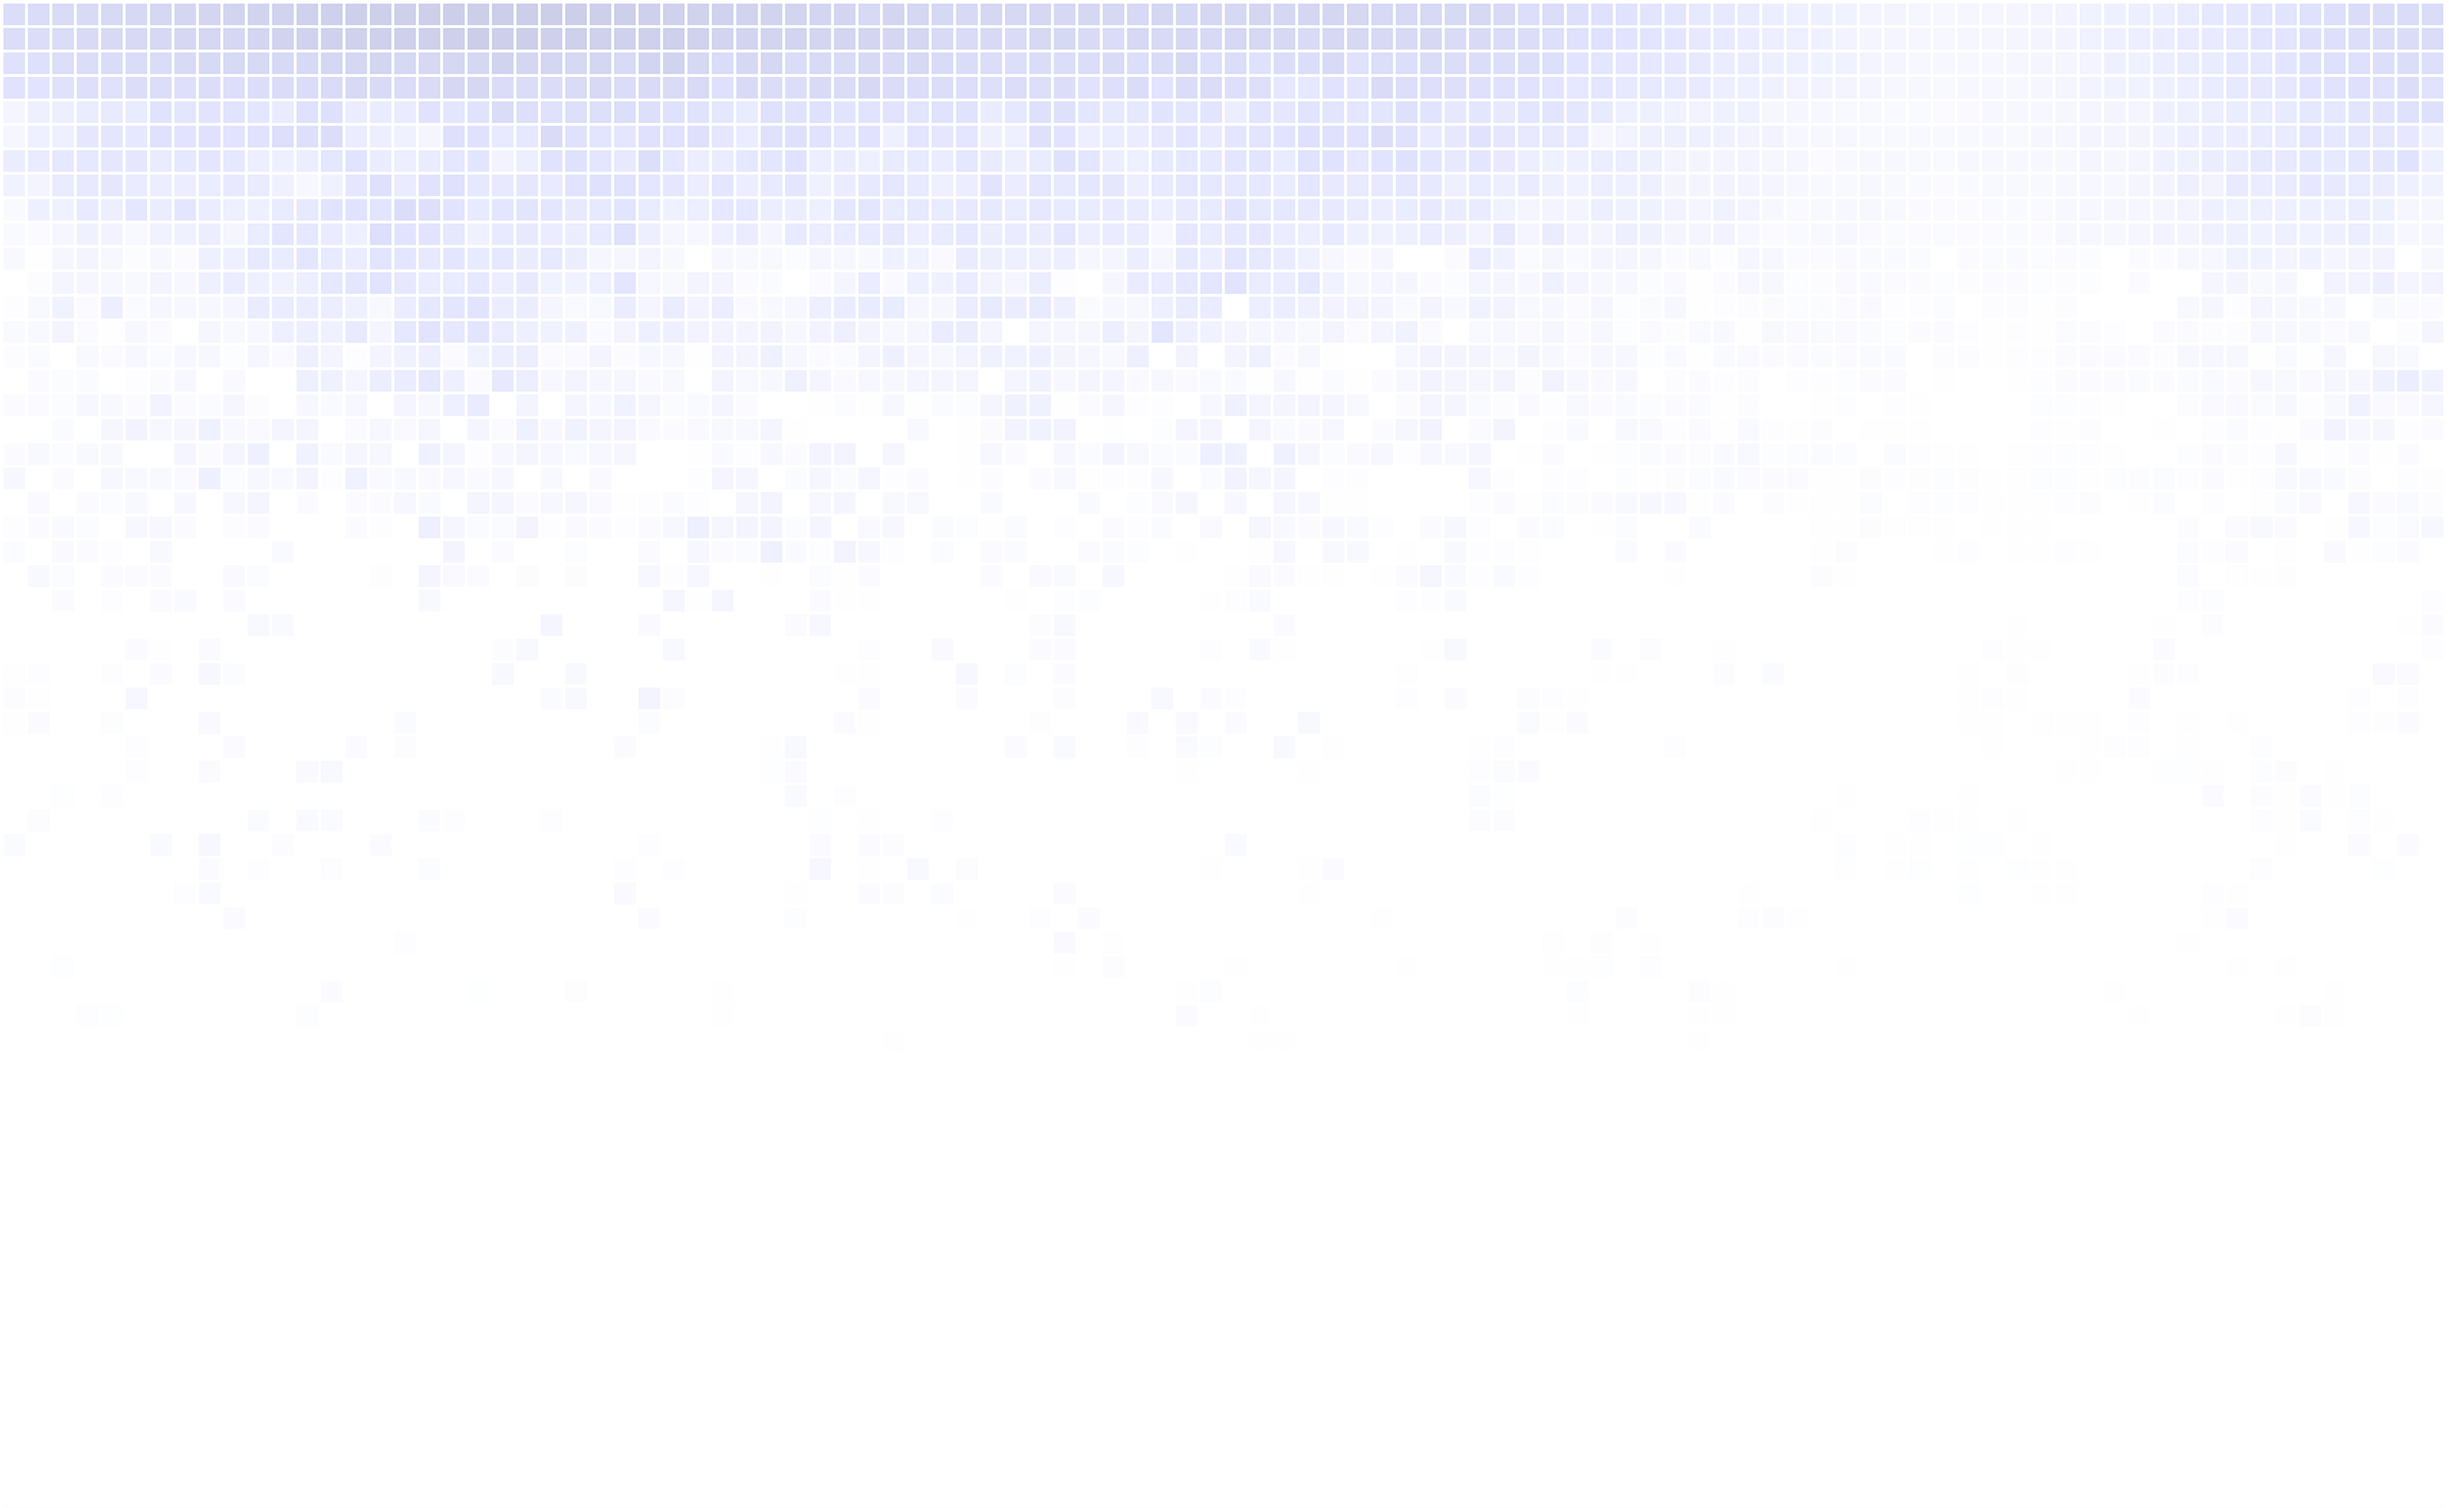
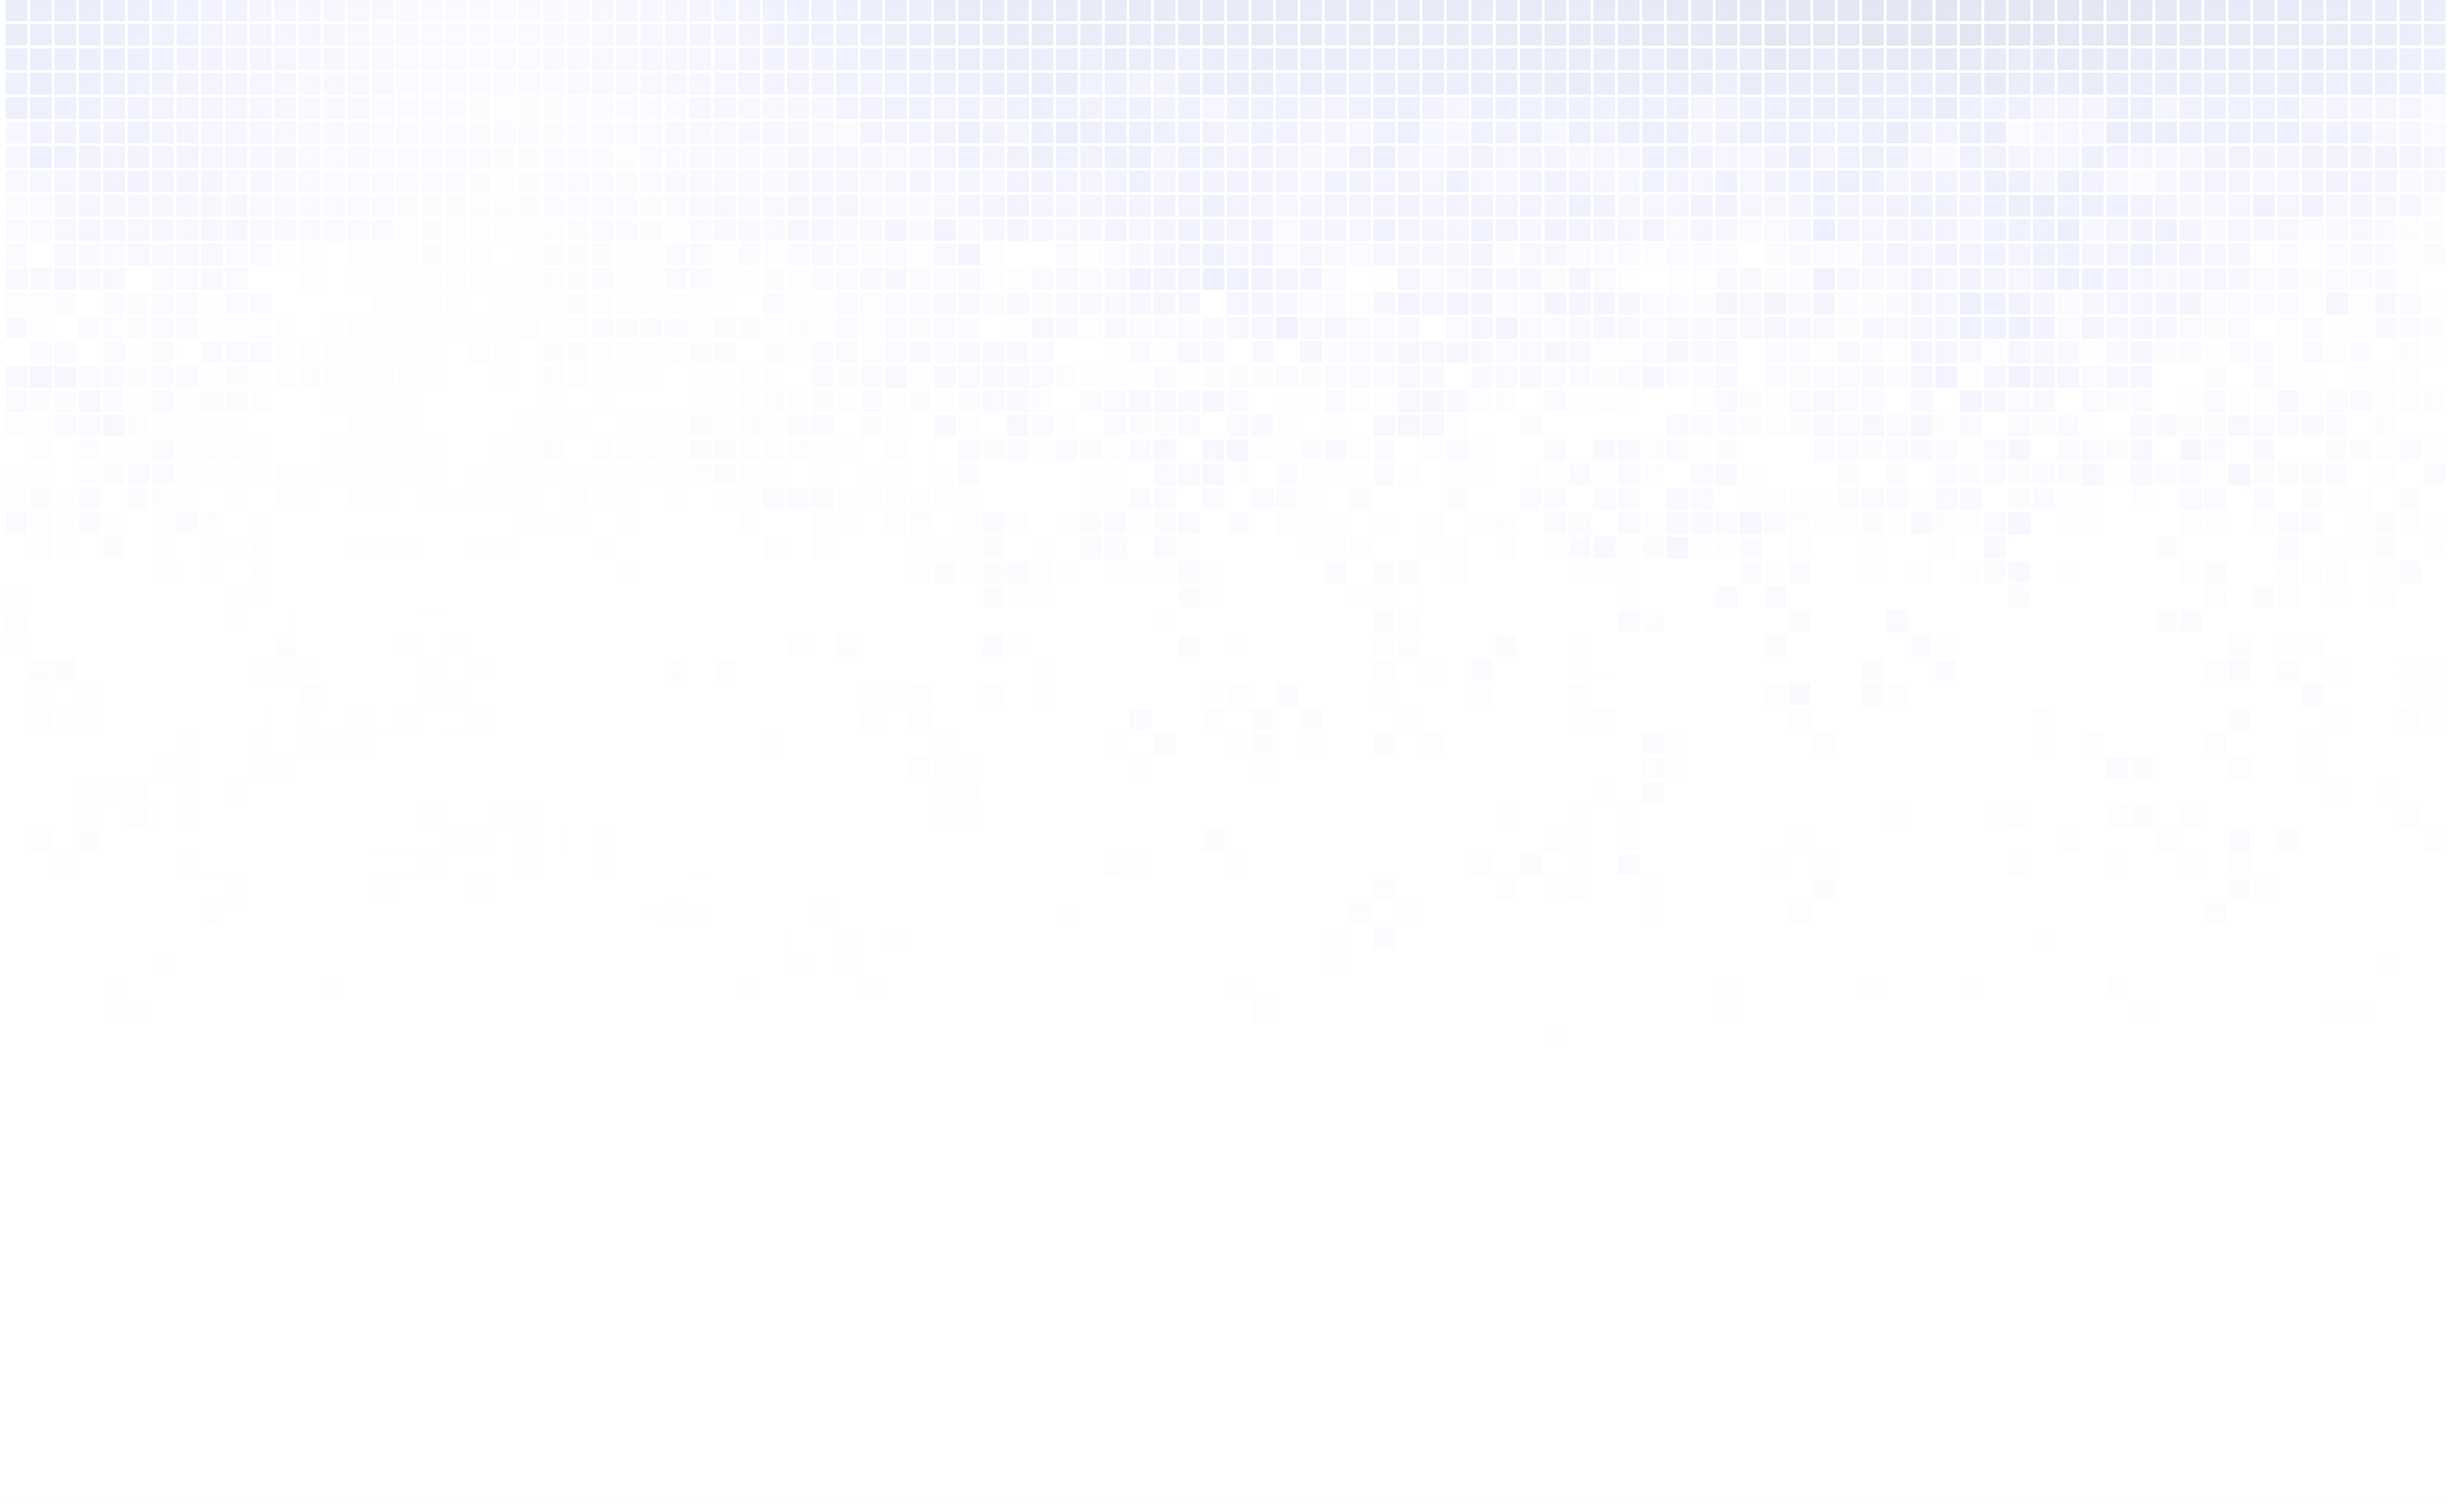
I think its pretty much there
Mobile seems to be working well

Changed region(s): [[0.0, 0.0, 0.682, 0.2476], [0.899, 0.0, 1.0, 0.1238], [0.744, 0.0, 0.837, 0.0309]]

diff --git a/styles.css b/styles.css
@@ -6,7 +6,6 @@ body {
     padding: 0;
     font-family: 'Roboto', sans-serif;
     color: #1f282e;
-
 }
 
 h1{
@@ -15,19 +14,16 @@ h1{
     line-height: 1.1;
     font-family: 'Roboto Slab', serif; 
     margin: 0;
-
 }
 
 h2{
     font-weight: normal;
     font-size: 1.1rem; 
     line-height: 1.4;
-
 }   
 
 h3{ 
     font-size: 1rem;
-
 }
 
 p{
@@ -63,7 +59,6 @@ img {
     padding: 15% 0 0 0;
     font-size: 4.1rem;
     line-height: 3.9rem;
-
 }
 
 .hero-subtitle {
@@ -77,7 +72,6 @@ img {
     width: 40vw;
     max-width: 800px;
     padding: 0 5%;
-
 }
 
 .hero-button {
@@ -106,14 +100,16 @@ img {
     grid-gap: 1%;
     grid-auto-rows: auto;
     margin: 0 0 1% 0;
+}
 
+.character-section {
+    margin: 0;
 }
 
 .character-box {
     padding-right: 5%;
     display: flex;
     flex-wrap: wrap;
-
 }
 
 .character-title {
@@ -150,13 +146,11 @@ img {
 .news-section {
     background: url(images/VGS-PixelsBG.png);
     background-repeat: no-repeat;
-    background-size: cover;
+    background-size: 100%;
 }
-
 
 .hero-content, .character-content, .news-content {
     margin: 0 2%;
-
 }
 
 .news-grid {
@@ -172,7 +166,7 @@ img {
 .stats-section {
     background: url(images/VGS-PixelsBG.png);
     background-repeat: no-repeat;
-    background-size: cover;
+    background-size: 100%;
     margin: 4% 0;
     text-align: center;
 }
@@ -195,14 +189,12 @@ img {
 .stats-title {
     font-size: 1.4rem;
     margin: 0;
-
 }
 
 .stats-text {
     font-size: 1rem;
     font-weight: bold;
     margin: 0;
-
 }
 
 /*     max width means this applies at less than x      */
@@ -216,28 +208,29 @@ img {
     html {
         font-size: 90%;
     }
-
+ 
     h1{
         font-weight: 700;
         font-size: 2rem;
         line-height: 1.1;
     }
 
+    img{
+        margin-top: 5%;
+    }
+
     h3{ 
         font-size: 1.2rem;
-
     }
 
     p{
         font-size: 1.1rem;
         line-height: 1.1;
-
     }
 
     .news-grid {
         grid-template-columns: repeat(1, minmax(12rem, 1fr));
         grid-gap: .5% ;
-
     }
 
     .hero {
@@ -254,9 +247,8 @@ img {
     .hero-title {
         font-weight: 700;
         font-size: 2.8rem;
-        line-height: 1.1;  
-        text-align: center;
-  
+        line-height: 1;  
+       /* text-align: center; */
     }
     
     .hero-button, .character-button {
@@ -266,33 +258,41 @@ img {
 
     .character-title {
         line-height: 1.5;
+    }
+
+    .news-grid, .character-grid {
+        display: block;
+    }
+
+
+   .news-section, .stats-section {
+        margin: 5% 0;
+        background-size: auto;
+    }
+
+    .news-section {
+        background-position: 0% 0%;
+
+    }
+
+    .character-heading{
+        padding: 5% 0 0 0;
+    }
+
+    .stats-content {
+        flex-wrap: wrap;
+        padding: 1%;
+    }
+
+    .stats-heading-box, .stats-container-2 {
+        width: 100vw;
+        padding: 5%;
 
     }
 
 }
 
 /*
-
-.news-grid {
-    display: grid;
-    grid-template-columns: repeat(auto-fill, minmax(12rem, 1fr));
-    grid-template-columns: repeat(3, minmax(1fr, 3fr));
-    grid-gap: 1%;
-}
-
-    grid-template-columns: repeat(3, [col-start] 1fr);
-
-.news-box-1 {
-    grid-column: col-start / span 1;
-}
-.news-box-2 {
-    grid-column: col-start 2 / span 1;
-}
-.news-box-3 {
-    grid-column: col-start 3 / span 1;
-}
-
-
 
 colour palette
 

diff --git a/index.html b/index.html
@@ -194,10 +194,12 @@
     <section class="stats-section">
         <div class="stats-content">
 
-
+            <div class="stats-heading-box">
                 <h1 class="stats-heading">
                 Statistics:
                 </h1>
+            </div>
+
 
             <div class="stats-container">
                 <h3 Class="stats-title">
@@ -214,10 +216,10 @@
                 </h3>
                 <p class="stats-text">
                     Most Online    
-                </p>
+                </p> 
             </div>
 
-            <div class="stats-container">
+            <div class="stats-container-2">
                 <p class="stats-text">
                     Newest Member </br>
                     jediclone_8 (4 hours ago)
